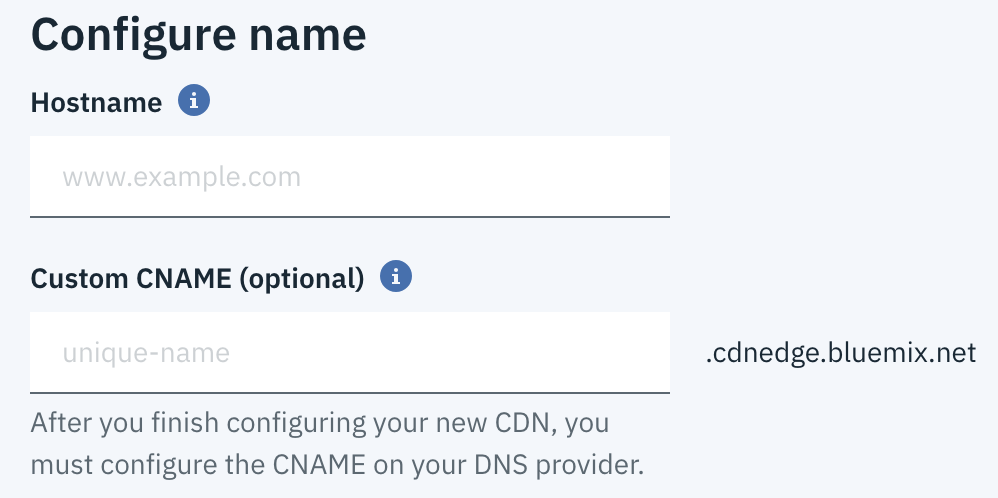
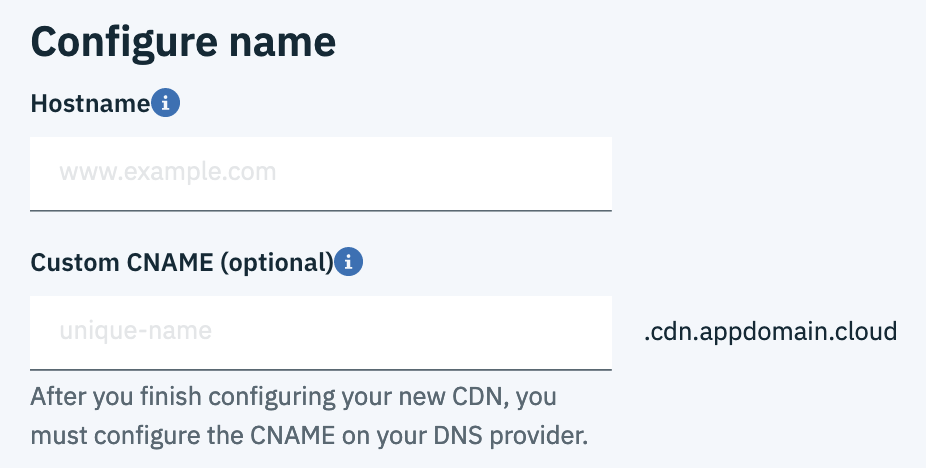
Update IBM CNAME Suffix
Move to the new IBM CNAME suffix `.cdn.appdomain.cloud` from `.cdnedge.bluemix.net`

diff --git a/troubleshooting.md b/troubleshooting.md
@@ -84,7 +84,7 @@ When your I{{site.data.keyword.cloud_notm}} CDN is configured to use COS as the 
 ## I can't connect through a `curl` command or browser using the Hostname with HTTPS.
 {: #i-cant-conect-through-a-curl-command-or-browser-using-the-hostname-with-https}
 
-If your CDN was created using HTTPS with a Wildcard certificate, the connection must be made using the CNAME; for example, `https://www.exampleCname.cdnedge.bluemix.net`. This includes **all** CDNs created with HTTPS prior to 18 June 2018. Trying to connect using the Hostname will result in an error.
+If your CDN was created using HTTPS with a Wildcard certificate, the connection must be made using the CNAME; for example, `https://www.exampleCname.cdn.appdomain.cloud`. This includes **all** CDNs created with HTTPS prior to 18 June 2018. Trying to connect using the Hostname will result in an error.
 
 ## What is the expected behavior when loading the CNAME or hostname on your browser for the supported protocols?
 {: #what-is-the-expected-behavior-when-loading-the-cname-or-hostname-on-your-browser-for-the-supported-protocols}
@@ -155,6 +155,6 @@ The `Access denied` message is seen when you're trying to reach a CDN using an i
 
 **A possible redirect error:**
 
-The behavior of a URL redirecting to {{site.data.keyword.cloud_notm}} CDN webpage is seen most often when the URL is incorrect for the protocol. If your CDN is created with a protocol of HTTPS or HTTPS_AND_HTTPS, you must use the CNAME for access to your CDN. For example: `https://examplecname.cdnedge.bluemix.net` for HTTPS mappings or `http://examplecname.cdnedge.bluemix.net` or `https://examplecname.cdnedge.bluemix.net` for HTTP_AND_HTTPS mappings.
+The behavior of a URL redirecting to {{site.data.keyword.cloud_notm}} CDN webpage is seen most often when the URL is incorrect for the protocol. If your CDN is created with a protocol of HTTPS or HTTPS_AND_HTTPS, you must use the CNAME for access to your CDN. For example: `https://examplecname.cdn.appdomain.cloud` for HTTPS mappings or `http://examplecname.cdn.appdomain.cloud` or `https://examplecname.cdn.appdomain.cloud` for HTTP_AND_HTTPS mappings.
 
 The URL redirects to {{site.data.keyword.cloud_notm}} CDN webpage in this case because both the protocol and domain are incorrect for the CDN's protocol. For a CDN created with HTTP as the _only_ protocol, it can be reached _only_ by means of the hostname. For example, `http://example.com`.

diff --git a/cdn-example-code.md b/cdn-example-code.md
@@ -2,7 +2,7 @@
 
 copyright:
   years: 2017, 2018, 2019
-lastupdated: "2019-05-21"
+lastupdated: "2019-08-06"
 
 keywords: code examples, example API calls, CDN API, Soap, client, apiKey
 
@@ -194,7 +194,7 @@ catch (\Exception $e) {
 
 This example shows you how to create a new CDN mapping using the `createDomainMapping` API. It takes a single parameter of a `stdClass` object. The SoapClient should be initialized using the `SoftLayer_Network_CdnMarketplace_Configuration_Mapping` class as shown in the example.
 
-If you choose to provide a custom CNAME, it **must** end with `.cdnedge.bluemix.net` or an error will be thrown. See [this description](/docs/infrastructure/CDN?topic=CDN-rules-and-naming-conventions#what-are-the-custom-cname-naming-conventions-) for rules on providing your own CNAME.
+If you choose to provide a custom CNAME, it **must** end with `.cdn.appdomain.cloud` or an error will be thrown. See [this description](/docs/infrastructure/CDN?topic=CDN-rules-and-naming-conventions#what-are-the-custom-cname-naming-conventions-) for rules on providing your own CNAME.
 {: important}
 
 ```php
@@ -222,7 +222,7 @@ try {
     $inputObject->certificateType = "SHARED_SAN_CERT";
 
     // The following values are optional
-    $inputObject->cname = "api-testing.cdnedge.bluemix.net";
+    $inputObject->cname = "api-testing.cdn.appdomain.cloud";
     $inputObject->path = "/media";
     $inputObject->header = '';
     $inputObject->respectHeader = true;
@@ -250,7 +250,7 @@ Array
             [bucketName] => mybucket
             [cacheKeyQueryRule] => include-all
             [certificateType] => SHARED_SAN_CERT
-            [cname] => api-testing.cdnedge.bluemix.net
+            [cname] => api-testing.cdn.appdomain.cloud
             [domain] => api-testing.cdntesting.net
             [header] => origin.cdntesting.net
             [httpPort] => 80
@@ -343,7 +343,7 @@ To be sure your CNAME record is configured correctly, run `dig <your domain>` on
 
 ```
 ;; ANSWER SECTION:
-api-testing.cdntesting.net. 900	IN	CNAME	api-testing.cdnedge.bluemix.net.
+api-testing.cdntesting.net. 900	IN	CNAME	api-testing.cdn.appdomain.cloud.
 ```
 {: codeblock}
 

diff --git a/how-to-https.md b/how-to-https.md
@@ -2,7 +2,7 @@
 
 copyright:
   years: 2018, 2019
-lastupdated: "2019-05-21"
+lastupdated: "2019-08-06"
 
 keywords: domain, control, validation, https, san certificate, challenge, apache, nginx, redirect
 
@@ -68,13 +68,13 @@ To get your CDN domain name added to the SAN certificate, you must prove that yo
 
 This method is recommended **ONLY** if your CDN is **not** serving live traffic. If your domain is serving live traffic, we recommended using either the Standard or Redirect method to validate your domain.
 
-To use this method, you'll add a CNAME record for your CDN domain into your DNS configuration. The CNAME value to use is the CNAME you used when you created the CDN. It should end with the `cdnedge.bluemix.net` domain. No other action is required from you. The DCV will progress automatically from this point. Validation can take 2 to 4 hours. Once the certificate is deployed, your CDN moves directly to RUNNING status.
+To use this method, you'll add a CNAME record for your CDN domain into your DNS configuration. The CNAME value to use is the CNAME you used when you created the CDN. It should end with the `cdn.appdomain.cloud` domain. No other action is required from you. The DCV will progress automatically from this point. Validation can take 2 to 4 hours. Once the certificate is deployed, your CDN moves directly to RUNNING status.
 
 Most DNS providers can give you instructions on setting or changing the CNAME. Here an example of a typical CNAME record:
 
 | **Resource Type** | **Host** | **Points to (CNAME)** | **TTL** |
 |------------------|---------|-------------|----------------|
-| CNAME | www.example.com | example.cdnedge.bluemix.net | 15 minutes |
+| CNAME | www.example.com | example.cdn.appdomain.cloud | 15 minutes |
 
 
 ---

diff --git a/https-faq.md b/https-faq.md
@@ -2,7 +2,7 @@
 
 copyright:
   years: 2018, 2019
-lastupdated: "2019-05-05"
+lastupdated: "2019-08-06"
 
 keywords: faq, https, wildcard, certificate, san certificate, domain validation, redirect, domains, challenge
 
@@ -26,7 +26,7 @@ subcollection: CDN
 {: #for-my-cdn-what-is-the-difference-between-https-with-wildcard-certificate-and-https-with-san-certificate}
 {:faq}
 
-With Wildcard certificates, all customers use the same certificate deployed on the vendor's CDN networks. The CNAME, including the IBM suffix `.cdnedge.bluemix.net`, must be used for access to the service. For example, `https://www.example-cname.cdnedge.bluemix.net`
+With Wildcard certificates, all customers use the same certificate deployed on the vendor's CDN networks. The CNAME, including the IBM suffix `.cdn.appdomain.cloud`, must be used for access to the service. For example, `https://www.example-cname.cdn.appdomain.cloud`
 
 In the case of SAN certificate, multiple customer domains share a single SAN certificate by adding their domain names into the SAN entries. The service can then be accesses using the hostname, for instance `https://www.example.com`
 
@@ -102,7 +102,7 @@ If the mapping's state is in DOMAIN_VALIDATION_PENDING state for more than 48 ho
 {: #does-a-wildcard-certificate-need-to-validate-a-domain-for-my-cdn}
 {:faq}
 
-No, but you can only use the CNAME to retrieve content from your origin. `https://www.example-cname.cdnedge.bluemix.net`
+No, but you can only use the CNAME to retrieve content from your origin. `https://www.example-cname.cdn.appdomain.cloud`
 
 ## I received an email indicating that my domains is not pointed to IBM CDN CNAME. What do I do now?
 {: #i-received-an-email-indicating-that-my-domain-is-not-pointed-to-IBM-CDN-CNAME}

diff --git a/about-https.md b/about-https.md
@@ -4,6 +4,7 @@ copyright:
   years: 2018, 2019
 lastupdated: "2019-08-09"
 
+
 keywords: wildcard certificate, https, san certificate
 
 subcollection: CDN
@@ -32,9 +33,9 @@ To decide between using **Wildcard Certificate** and **SAN Certificate** for HTT
 **Note**:
 New CDN mappings with Wildcard Certificate are NOT supported at this time.
 
-The Wildcard certificate is the simplest way to deliver web content to your end-users securely. The full CDN CNAME, including the Wildcard certificate suffix, **must** be used as the service entry point (for example, `https://example.cdnedge.bluemix.net`) in order to use the Wildcard certificate.
+The Wildcard certificate is the simplest way to deliver web content to your end-users securely. The full CDN CNAME, including the Wildcard certificate suffix, **must** be used as the service entry point (for example, `https://example.cdn.appdomain.cloud`) in order to use the Wildcard certificate.
 
-IBM Cloud CDN uses the Wildcard certificate `*.cdnedge.bluemix.net`. The CNAME, regardless of whether it was created for you or provided by you, and ending in suffix `*.cdnedge.bluemix.net` is added to the wildcard certificate maintained on the CDN Edge server. And thus CNAME becomes the only way for end users to use HTTPS for your CDN.
+IBM Cloud CDN uses the Wildcard certificate `*.cdn.appdomain.cloud`. The CNAME, regardless of whether it was created for you or provided by you, and ending in suffix `*.cdn.appdomain.cloud` is added to the wildcard certificate maintained on the CDN Edge server. And thus CNAME becomes the only way for end users to use HTTPS for your CDN.
 
 ![Diagram for HTTP and Wildcard](images/state-diagram-wildcard.png)
 

diff --git a/faqs.md b/faqs.md
@@ -2,7 +2,7 @@
 
 copyright:
   years: 2017, 2018, 2019
-lastupdated: "2019-05-21"
+lastupdated: "2019-08-06"
 
 keywords: faqs, content delivery network, cname, configuration, status, ports, hotlink protection, error state, file path, cloud object storage, security, console, main page, create
 
@@ -53,13 +53,13 @@ For HTTP and SAN Certificate based HTTPS CDN, update your DNS record so that you
 {: #how-do-i-add-a-cname-record-for-my-cdn-domain-in-dns}
 {: faq}
 
-In your DNS configuration page for your CDN domain, you can create a CNAME record with CDN Domain name as the Host and the IBM CNAME you used to configure the CDN, as the CNAME. The IBM CNAME ends with `cdnedge.bluemix.net`.
+In your DNS configuration page for your CDN domain, you can create a CNAME record with CDN Domain name as the Host and the IBM CNAME you used to configure the CDN, as the CNAME. The IBM CNAME ends with `cdn.appdomain.cloud`.
 
 A typical CNAME record would look like the following on the DNS configuration page:
 
 | **Resource Type** | **Host** | **Points to (CNAME)** | **TTL** |
 |------------------|---------|-------------|----------------|
-| CNAME | www.example.com | example.cdnedge.bluemix.net | 15 minutes |
+| CNAME | www.example.com | example.cdn.appdomain.cloud | 15 minutes |
 
 
 ## What will I be billed for in my CDN

diff --git a/how-to-order.md b/how-to-order.md
@@ -64,7 +64,7 @@ Click **Create** at the bottom right, which creates your CDN account if you don'
 Fill out the **Configure Name** field:  
 
   * Specify the **Hostname** (**required**), which serves as the primary identifier for your CDN (for example, `example.testingcdn.net`).  
-  * Optionally, you may provide a custom **CNAME** (such as `myfirstcdn.cdnedge.bluemix.net`). If no CNAME is provided, one will be created for you. The suffix `cdnedge.bluemix.net` is automatically appended to the CNAME. Use of an inappropriate CNAME may lead to termination of services.
+  * Optionally, you may provide a custom **CNAME** (such as `myfirstcdn.cdn.appdomain.cloud`). If no CNAME is provided, one will be created for you. The suffix `cdn.appdomain.cloud` is automatically appended to the CNAME. Use of an inappropriate CNAME may lead to termination of services.
 
        ![Configure Name](images/configure-hostname-cname.png)  
 

diff --git a/whats-new.md b/whats-new.md
@@ -2,7 +2,7 @@
 
 copyright:
   years: 2018, 2019
-lastupdated: "2019-04-04"
+lastupdated: "2019-08-06"
 
 keywords: new, features, hotlink, Akamai, enhancements, geographical access, cache, key, optimization, video on demand, feature, descriptions, protection, vendor
 
@@ -22,6 +22,11 @@ subcollection: CDN
 {: #what-s-new}
 
 {{site.data.keyword.cloud}} launched the CDN service with Akamai in September 2017, but we haven't stopped there. We continue to make enhancements and add new features to the service, in order to better serve you and your end-users. Check back periodically to see what's new.
+
+## August 2019
+{: #august-2019}
+
+* Move to the new IBM CNAME suffix `.cdn.appdomain.cloud` from `.cdnedge.bluemix.net` to unify user experience (Existing CDNs that are mapped to `.cdnedge.bluemix.net` will NOT be impacted).
 
 ## March 2019
 {: #march-2019}

diff --git a/rules-and-naming-conventions.md b/rules-and-naming-conventions.md
@@ -2,7 +2,7 @@
 
 copyright:
   years: 2018, 2019
-lastupdated: "2019-04-04"
+lastupdated: "2019-08-06"
 
 keywords: rules, naming, conventions, hostname, cname, RFC, 1033, 1035, bucket, path, origin, purge, alphanumeric, top-level domain, valid, string
 
@@ -30,7 +30,7 @@ The CDN `Hostname` input string **must**:
   * be less than 254 characters
   * end with a valid top-level domain name
   * must **not** contain more than 10 labels
-  * must **not** end in `cdnedge.bluemix.net` (that ending is used for CNAMES and is reserved)
+  * must **not** end in `cdn.appdomain.cloud` or `cdnedge.bluemix.net` (that ending is used for CNAMES and is reserved)
 
 Please refer to RFC 1035, section 2.3.4 for more details. 
 

diff --git a/mapping-container.md b/mapping-container.md
@@ -2,7 +2,7 @@
 
 copyright:
   years: 2017, 2018, 2019
-lastupdated: "2019-04-04"
+lastupdated: "2019-08-06"
 
 keywords: mapping, container, class, collection, object, API
 
@@ -61,7 +61,7 @@ will return an object to similar to this one:
         (
             [cacheKeyQueryRule] => include-all
             [certificateType] => NO_CERT
-            [cname] => api-testing.cdnedge.bluemix.net
+            [cname] => api-testing.cdn.appdomain.cloud
             [domain] => api-testing.cdntesting.net
             [header] => origin.cdntesting.net
             [httpPort] => 80

diff --git a/how-to.md b/how-to.md
@@ -2,7 +2,7 @@
 
 copyright:
   years: 2017, 2018, 2019
-lastupdated: "2019-05-21"
+lastupdated: "2019-08-06"
 
 keywords: manage, time to live, origin path, cache key, server, object storage, bucket, configuration, details, updating
 

diff --git a/metrics.md b/metrics.md
@@ -2,7 +2,7 @@
 
 copyright:
   years: 2018, 2019
-lastupdated: "2019-02-25"
+lastupdated: "2019-08-06"
 
 keywords: metrics, bandwidth, overview, hit ratio, edge server, cache, ingress, hits
 
